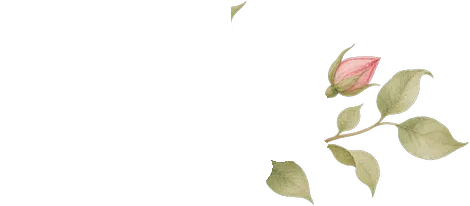
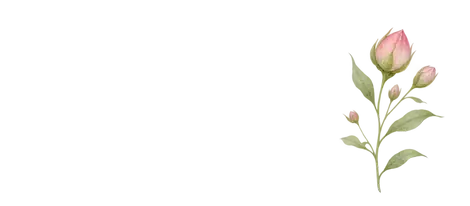
Arte nuevo: caligrafía Great Vibes y la decoración que pidió Soffia
La S de Parisienne se leía como una ele, así que la firma pasa a Great
Vibes. Pinta un 7 % más ancho por letra, de modo que los tres tamaños que
la usan bajan en la misma proporción: con los de antes el nombre se salía
de la hoja.

Las flores son otras —ranúnculo, cosmos y peonía en vez de rosas— en los
dos estilos, porque el tipo de flor fue lo primero que ella rechazó y
dejarlo en «papel» habría sido volver a enseñárselo.

El muro que tapa la fotografía se rehízo conservando la silueta recortada
de los paneles viejos y cambiando solo lo que la rellena: así la
animación del desvelado es exactamente la de antes. El panel de arriba se
toma de más lejos, porque se ve al 125 % del marco y los laterales al
80 %, y a la misma escala sus flores salían del doble de tamaño.

Las esferas espejadas, los globos, los moños, el confeti y la purpurina
solo salen en «fiesta»: sobre la acuarela de «papel» cantarían, y ahí la
gracia es la contraria. Eso deja los dos estilos por fin distintos de
verdad. Las láminas traían un velo de alfa invisible que al recortar
dejaba un recuadro alrededor de cada pieza; quitarlo bajó el peso casi a
la mitad.

Las secciones de «fiesta» respiran más por arriba porque ahí es donde van
los adornos, y recortan a lo ancho con `clip` y no con `hidden`: `hidden`
las convertiría en contenedores de scroll y la escena de Soffia dejaría
de pegarse.

Changed region(s): [[0.6851, 0.1456, 1.0, 0.9612], [0.566, 0.7573, 0.6851, 0.9903], [0.4766, 0.0, 0.5362, 0.0874]]

diff --git a/styles.css b/styles.css
@@ -36,7 +36,7 @@
 
   --col: 480px;
   --serif: 'Cormorant Garamond', 'Times New Roman', serif;
-  --firma: 'Parisienne', 'Cormorant Garamond', cursive;
+  --firma: 'Great Vibes', 'Cormorant Garamond', cursive;
   --sans:  'Jost', system-ui, -apple-system, sans-serif;
 
   --curva: cubic-bezier(.22,.61,.36,1);
@@ -266,7 +266,7 @@ body.hoja-fuera .carta{ top:38%; left:16%; width:68%; }
 }
 .carta-nombre{
   font-family:var(--firma); font-weight:400;
-  font-size: clamp(32px, calc(var(--hoja-w, 92vw) * .105), 52px); line-height:1.06;
+  font-size: clamp(30px, calc(var(--hoja-w, 92vw) * .098), 49px); line-height:1.10;
   color:var(--tinta); margin:.1em 0 0;
   white-space:nowrap;
 }
@@ -559,7 +559,7 @@ main{ display:block; }
 .invitacion .inv-pie{ transition-delay:.34s; }
 .firma{
   font-family:var(--firma); font-weight:400;
-  font-size:clamp(38px,12.6vw,56px); line-height:1.1;
+  font-size:clamp(36px,11.8vw,52px); line-height:1.14;
   color:var(--tinta); display:block;
 }
 .parrafo-grande{
@@ -812,7 +812,7 @@ main{ display:block; }
 }
 .rubrica-firma{
   font-family:var(--firma); font-weight:400;
-  font-size:clamp(54px,17vw,74px); line-height:1;
+  font-size:clamp(50px,15.9vw,69px); line-height:1.04;
   color:var(--tinta); margin:.1em 0 0;
 }
 .sello{
@@ -969,43 +969,35 @@ body.anima .revela.visible{ opacity:1; transform:none; }
    ════════════════════════════════════════════════════════════════════ */
 
 .adorno{
-  position:absolute; z-index:1; pointer-events:none;
+  /* Fotografías de verdad: espejo, foil, satén y purpurina. Solo salen en
+     «fiesta». Sobre la acuarela del estilo «papel» cantarían, y ahí la
+     gracia es justo la contraria: que manden las flores, nada más. */
+  display:none;
+  position:absolute; z-index:1; pointer-events:none; height:auto;
   will-change: transform;
   transform: translate3d(0, var(--py, 0px), 0) rotate(var(--giro,0deg));
 }
-.adorno svg{ display:block; width:100%; height:auto; }
+:root[data-estilo="fiesta"] .adorno{ display:block; }
 
-/* Colocación, igual en los dos estilos: lo que cambia es el tamaño. Todos
-   van ARRIBA del todo, por encima de donde empiezan los antetítulos: al
-   crecer el texto, cualquier cosa a media altura acaba rozándolo. */
-.adorno-soffia.adorno-esfera  { width:13%; top:14px; left:5%;   --giro:-6deg; }
-.adorno-soffia.adorno-destello{ width:6%;  top:76px; left:21%;  --giro:8deg;  }
-.adorno-cuando.adorno-estrella{ width:11%; top:16px; right:7%;  --giro:9deg;  }
-.adorno-cuando.adorno-destello{ width:5.5%;top:74px; right:21%; --giro:-7deg; }
-.adorno-itin.adorno-mono      { width:15%; top:10px; left:4%;   --giro:-5deg; }
-.adorno-itin.adorno-destello  { width:5.5%;top:72px; left:22%;  --giro:6deg;  }
+/* Colocación. Todo va ARRIBA del todo, por encima de donde empiezan los
+   antetítulos: cualquier cosa a media altura acaba rozando el texto cuando
+   la letra crece. Los hilos de las esferas y las cintas de los globos salen
+   cortados en el borde del recorte, así que cuelgan del canto de la sección
+   en vez de flotar sueltos. */
+.ad-esferas   { width:27%; top:-4px;  left:3%;   --giro:0deg;  }
+.ad-globos    { width:28%; top:2px;   right:2%;  --giro:0deg;  }
+.ad-esfera-sola{width:8%;  top:-2px;  left:13%;  --giro:0deg;  }
+.ad-mono-a    { width:19%; top:10px;  left:4%;   --giro:-5deg; }
+.ad-mono-b    { width:17%; top:14px;  right:5%;  --giro:4deg;  }
 
-/* el color de la estrella, el moño y el destello viaja por `color`, que sí
-   entra en las copias que hace <use>; las variables CSS no */
-.adorno-estrella, .adorno-mono, .adorno-destello{ color: var(--ad-medio, #D98E92); }
-.adorno-destello{ color: var(--ad-destello, #E0B49C); }
+/* El confeti va grande y muy tenue, y se sale por el canto: así se lee como
+   polvo repartido por la hoja y no como una calcomanía pegada en una esquina. */
+.ad-polvo     { opacity:.55; }
+.ad-polvo-a   { width:34%; top:30px;  right:-6%; --giro:0deg; }
+.ad-polvo-b   { width:32%; top:38px;  right:-5%; --giro:0deg; }
 
-/* ── 1 · PAPEL ────────────────────────────────────────────────────────────
-   Los adornos pasan por acuarela: sin metal, apagados y fundidos con el
-   papel. Están, pero no levantan la voz: las flores siguen mandando. */
-:root[data-estilo="papel"]{
-  --ad-claro:    #F3DCD6;
-  --ad-medio:    #DCA9A2;
-  --ad-hondo:    #BE8A80;
-  --ad-destello: #D7AE8E;
-}
-:root[data-estilo="papel"] .adorno{
-  opacity:.52;
-  mix-blend-mode: multiply;      /* se mete en la fibra del papel */
-  filter: saturate(.72);
-}
-:root[data-estilo="papel"] .adorno-esfera{ width:10%; }
-:root[data-estilo="papel"] .adorno-mono  { width:12%; }
+/* «Papel» se queda como estaba: acuarela y nada más. Esa es la diferencia
+   entre los dos estilos, y por eso se pueden comparar de verdad. */
 
 /* ── 2 · FIESTA ───────────────────────────────────────────────────────────
    Rosa fuerte y plata, como las referencias que eligió Soffia. El papel se
@@ -1026,30 +1018,25 @@ body.anima .revela.visible{ opacity:1; transform:none; }
   --tinta-suave:   #6B4E5C;
   --tinta-tenue:   #9A7C8A;
 
-  --ad-claro:    #FFFFFF;
-  --ad-medio:    #C9C2C8;
-  --ad-hondo:    #8A7F88;
-  --ad-destello: #E88FB2;
 }
-:root[data-estilo="fiesta"] .adorno{ opacity:.95; }
-:root[data-estilo="fiesta"] .adorno-esfera{
-  width:17%;
-  filter: drop-shadow(0 6px 14px rgba(90,60,75,.22));
-}
-:root[data-estilo="fiesta"] .adorno-estrella,
-:root[data-estilo="fiesta"] .adorno-mono{
-  color:#E0749E;
-  filter: drop-shadow(0 4px 10px rgba(160,60,100,.20));
-}
-:root[data-estilo="fiesta"] .adorno-estrella{ width:14%; }
-:root[data-estilo="fiesta"] .adorno-mono    { width:19%; }
-:root[data-estilo="fiesta"] .adorno-destello{ width:7%; }
 
 /* Las acuarelas son las mismas imágenes: se les sube el tono para que no se
    vean descoloridas junto al rosa fuerte. No es arte nuevo, es un ajuste. */
+:root[data-estilo="fiesta"] .ad-esferas,
+:root[data-estilo="fiesta"] .ad-esfera-sola{
+  filter: drop-shadow(0 7px 16px rgba(90,60,75,.20));
+}
+:root[data-estilo="fiesta"] .ad-mono-a,
+:root[data-estilo="fiesta"] .ad-mono-b,
+:root[data-estilo="fiesta"] .ad-globos{
+  filter: drop-shadow(0 5px 13px rgba(160,60,100,.17));
+}
+
+/* Las flores son las mismas en los dos estilos: aquí se les sube el tono
+   para que no se queden pálidas al lado del rosa fuerte. */
 :root[data-estilo="fiesta"] .flor,
 :root[data-estilo="fiesta"] .petalo{
-  filter: saturate(1.5) hue-rotate(-8deg) contrast(1.04);
+  filter: saturate(1.22) contrast(1.03);
 }
 
 /* El estilo fiesta pedía más cuerpo: con dos adornos por sección se quedaba
@@ -1058,21 +1045,32 @@ body.anima .revela.visible{ opacity:1; transform:none; }
    Va en el FONDO de la sección, no en un ::after: un pseudoelemento hay que
    colocarlo, y colocarlo obliga a subir el contenido por encima, lo que
    convertía los adornos en bloques a pantalla completa. */
-:root[data-estilo="fiesta"] .seccion{
-  background-image:
-    radial-gradient(circle at 12% 18%, rgba(224,116,158,.22) 0 1.6px, transparent 2px),
-    radial-gradient(circle at 78% 9%,  rgba(255,255,255,.85) 0 2.2px, transparent 2.8px),
-    radial-gradient(circle at 34% 62%, rgba(224,116,158,.16) 0 1.4px, transparent 1.9px),
-    radial-gradient(circle at 88% 48%, rgba(224,116,158,.20) 0 1.8px, transparent 2.3px),
-    radial-gradient(circle at 60% 86%, rgba(255,255,255,.75) 0 2px,   transparent 2.6px),
-    radial-gradient(circle at 20% 92%, rgba(224,116,158,.18) 0 1.5px, transparent 2px);
-  background-size: 190px 240px, 260px 300px, 150px 210px, 230px 270px, 300px 330px, 180px 250px;
+/* La purpurina es una fotografía, no seis degradados: el grano fino y el
+   desenfoque son justo lo que no se puede dibujar con CSS.
+   Va a `cover`, no repetida: la lámina no es sin costuras y al mosaico se le
+   verían las uniones. Estirada no se nota, porque no tiene forma. Y en
+   `multiply` para que cada sección conserve su propio color de fondo. */
+/* «Fiesta» respira más por arriba. No es capricho: el texto de una sección
+   empieza a 112 px del canto, y ahí es donde van los adornos. Con la banda de
+   antes, las esferas rozaban el primer renglón; ensanchándola caben de sobra
+   y de paso la sección se ve más holgada, que es lo que pedía este estilo. */
+:root[data-estilo="fiesta"] .seccion,
+:root[data-estilo="fiesta"] .s-soffia{
+  padding-top: clamp(170px, 32vw, 206px);
+  /* El confeti se sale por el canto a propósito, y eso ensanchaba la página.
+     `clip` y no `hidden`: `hidden` convierte la sección en un contenedor de
+     scroll y la escena de Soffia, que va pegada con sticky, dejaría de
+     pegarse. `clip` recorta sin tocar el scroll. */
+  overflow-x: clip;
 }
 
-:root[data-estilo="fiesta"] .adorno-esfera  { width:17%; }
-:root[data-estilo="fiesta"] .adorno-estrella{ width:13%; }
-:root[data-estilo="fiesta"] .adorno-mono    { width:17%; }
-:root[data-estilo="fiesta"] .adorno-destello{ width:7%;  }
+:root[data-estilo="fiesta"] .seccion{
+  background-image: url('assets/fondo-purpurina.webp');
+  background-size: cover;
+  background-position: center;
+  background-blend-mode: multiply;
+}
+
 
 /* y el campo se tiñe de rosa, no solo un punto más que el marfil */
 :root[data-estilo="fiesta"]{

diff --git a/index.html b/index.html
@@ -10,7 +10,7 @@
 <meta name="theme-color" content="#F7EADF">
 <link rel="preconnect" href="https://fonts.googleapis.com">
 <link rel="preconnect" href="https://fonts.gstatic.com" crossorigin>
-<link rel="stylesheet" href="https://fonts.googleapis.com/css2?family=Cormorant+Garamond:ital,wght@0,300;0,400;0,500;0,600;1,300;1,400&family=Jost:wght@300;400;500&family=Parisienne&display=swap">
+<link rel="stylesheet" href="https://fonts.googleapis.com/css2?family=Cormorant+Garamond:ital,wght@0,300;0,400;0,500;0,600;1,300;1,400&family=Jost:wght@300;400;500&family=Great+Vibes&display=swap">
 <!-- El estilo se decide antes de pintar nada: si se pusiera desde script.js
      se vería un parpadeo del estilo viejo al nuevo. Manda ?estilo= de la URL;
      si no, lo que diga datos.js (y por defecto, «papel»). -->
@@ -28,66 +28,6 @@
 <link rel="stylesheet" href="styles.css?v=1794944188">
 </head>
 <body class="sin-abrir">
-
-<!-- ══════════════ ADORNOS ══════════════
-     Dibujados, no fotografiados: así los mismos cuatro sirven a los dos
-     estilos. El CSS decide color, tamaño y fuerza, de modo que en «papel»
-     pasan por acuarela apagada y en «fiesta» por plata y purpurina. -->
-<svg width="0" height="0" style="position:absolute" aria-hidden="true" focusable="false">
- <defs>
-
-  <clipPath id="c-esfera"><circle cx="50" cy="52" r="40"/></clipPath>
-  <symbol id="ad-esfera" viewBox="0 0 100 100">
-    <radialGradient id="g-esfera" cx="34%" cy="26%" r="82%">
-      <stop offset="0"   stop-color="#FFFFFF"/>
-      <stop offset=".30" stop-color="var(--ad-claro,#EDE7E9)"/>
-      <stop offset=".70" stop-color="var(--ad-medio,#BCB2B7)"/>
-      <stop offset="1"   stop-color="var(--ad-hondo,#857A80)"/>
-    </radialGradient>
-    <circle cx="50" cy="52" r="40" fill="url(#g-esfera)"/>
-    <g clip-path="url(#c-esfera)" stroke="#FFFFFF" stroke-opacity=".5" stroke-width=".9" fill="none">
-      <!-- los meridianos van en elipses: rectos, la esfera parecería una reja -->
-      <ellipse cx="50" cy="52" rx="10" ry="40"/>
-      <ellipse cx="50" cy="52" rx="22" ry="40"/>
-      <ellipse cx="50" cy="52" rx="32" ry="40"/>
-      <path d="M10 36h80M10 44h80M10 52h80M10 60h80M10 68h80M14 28h72M14 76h72"/>
-    </g>
-    <ellipse cx="36" cy="35" rx="12" ry="8" fill="#FFFFFF" opacity=".5"
-             transform="rotate(-26 36 35)"/>
-    <path d="M50 12v-9" stroke="var(--ad-hondo,#C9BFC4)" stroke-width="1.6" stroke-linecap="round"/>
-  </symbol>
-
-  <symbol id="ad-estrella" viewBox="0 0 100 100">
-    <path fill="currentColor"
-          d="M50 7 61.8 38.2 95 39.4 68.6 59.6 78 91.5 50 72.4 22 91.5 31.4 59.6 5 39.4 38.2 38.2Z"/>
-    <path fill="#FFFFFF" opacity=".42"
-          d="M50 7 61.8 38.2 95 39.4 68.6 59.6 50 46Z"/>
-  </symbol>
-
-  <symbol id="ad-destello" viewBox="0 0 100 100">
-    <path fill="currentColor"
-          d="M50 2c3 26 19 42 46 48-27 6-43 22-46 48-3-26-19-42-46-48 27-6 43-22 46-48Z"/>
-  </symbol>
-
-  <symbol id="ad-mono" viewBox="0 0 100 100">
-    <g fill="currentColor">
-      <path d="M46 52c-6 12-12 20-20 28 7 2 12 1 16-3 5-5 8-14 9-23Z"/>
-      <path d="M54 52c6 12 12 20 20 28-7 2-12 1-16-3-5-5-8-14-9-23Z"/>
-      <path d="M48 48C38 36 24 30 14 34c-9 4-8 16 2 20 9 4 23 1 32-6Z"/>
-      <path d="M52 48c10-12 24-18 34-14 9 4 8 16-2 20-9 4-23 1-32-6Z"/>
-    </g>
-    <path d="M44 42c-7-4-16-6-22-4" stroke="#FFFFFF" stroke-opacity=".45"
-          stroke-width="2.4" fill="none" stroke-linecap="round"/>
-    <path d="M56 42c7-4 16-6 22-4" stroke="#FFFFFF" stroke-opacity=".45"
-          stroke-width="2.4" fill="none" stroke-linecap="round"/>
-    <ellipse cx="50" cy="49" rx="6.5" ry="7.5" fill="currentColor"/>
-    <ellipse cx="50" cy="49" rx="6.5" ry="7.5" fill="#000" opacity=".18"/>
-    <path d="M44 42c2-2 5-3 8-3" stroke="#FFFFFF" stroke-opacity=".5"
-          stroke-width="1.6" fill="none" stroke-linecap="round"/>
-  </symbol>
-
- </defs>
-</svg>
 
 <p class="salta"><a href="#contenido">Saltar al contenido de la invitación</a></p>
 
@@ -172,8 +112,8 @@
 <section class="seccion s-soffia" id="soffia">
   <div class="costura costura-arriba" aria-hidden="true"></div>
   <img class="flor flor-soffia" src="assets/flor-rosa.webp" alt="" loading="lazy" data-parallax="0.09">
-  <span class="adorno adorno-soffia adorno-esfera" aria-hidden="true" data-parallax="0.10"><svg viewBox="0 0 100 100"><use href="#ad-esfera"/></svg></span>
-  <span class="adorno adorno-soffia adorno-destello" aria-hidden="true" data-parallax="0.11"><svg viewBox="0 0 100 100"><use href="#ad-destello"/></svg></span>
+  <img class="adorno ad-esferas" src="assets/ad-esferas.webp" alt="" aria-hidden="true" loading="lazy" data-parallax="0.10">
+  <img class="adorno ad-polvo ad-polvo-a" src="assets/ad-estrellas.webp" alt="" aria-hidden="true" loading="lazy" data-parallax="0.13">
 
   <!-- el puente: lo último que se lee antes de que se abran las rosas -->
   <div class="envoltorio">
@@ -220,8 +160,8 @@
 <section class="seccion s-cuando" id="cuando">
   <div class="costura costura-arriba invertida" aria-hidden="true"></div>
   <img class="flor flor-cuando" src="assets/flor-ramo.webp" alt="" loading="lazy" data-parallax="0.07">
-  <span class="adorno adorno-cuando adorno-estrella" aria-hidden="true" data-parallax="0.10"><svg viewBox="0 0 100 100"><use href="#ad-estrella"/></svg></span>
-  <span class="adorno adorno-cuando adorno-destello" aria-hidden="true" data-parallax="0.11"><svg viewBox="0 0 100 100"><use href="#ad-destello"/></svg></span>
+  <img class="adorno ad-globos" src="assets/ad-globos.webp" alt="" aria-hidden="true" loading="lazy" data-parallax="0.09">
+  <img class="adorno ad-esfera-sola" src="assets/ad-esfera.webp" alt="" aria-hidden="true" loading="lazy" data-parallax="0.12">
 
   <div class="envoltorio">
     <p class="antetitulo revela" style="--i:0">Cuándo</p>
@@ -255,8 +195,8 @@
 <section class="seccion s-itinerario" id="itinerario">
   <div class="costura costura-arriba" aria-hidden="true"></div>
   <img class="flor flor-itin" src="assets/flor-capullos.webp" alt="" loading="lazy" data-parallax="0.11">
-  <span class="adorno adorno-itin adorno-mono" aria-hidden="true" data-parallax="0.10"><svg viewBox="0 0 100 100"><use href="#ad-mono"/></svg></span>
-  <span class="adorno adorno-itin adorno-destello" aria-hidden="true" data-parallax="0.11"><svg viewBox="0 0 100 100"><use href="#ad-destello"/></svg></span>
+  <img class="adorno ad-mono-a" src="assets/ad-mono-a.webp" alt="" aria-hidden="true" loading="lazy" data-parallax="0.10">
+  <img class="adorno ad-polvo ad-polvo-b" src="assets/ad-estrellas.webp" alt="" aria-hidden="true" loading="lazy" data-parallax="0.13">
 
   <div class="envoltorio">
     <p class="antetitulo revela" style="--i:0">Así celebraremos</p>
@@ -293,6 +233,7 @@
 <!-- ══════════════ 7 · DESPEDIDA ══════════════ -->
 <section class="seccion s-cierre" id="cierre">
   <div class="costura costura-arriba invertida" aria-hidden="true"></div>
+  <img class="adorno ad-mono-b" src="assets/ad-mono-b.webp" alt="" aria-hidden="true" loading="lazy" data-parallax="0.10">
   <!-- el cierre se monta en tres piezas: la rosa donde aterriza la que cae,
        y el follaje de cada lado, que sale de detrás cuando ya está posada -->
   <span class="flor flor-cierre-b" aria-hidden="true" data-parallax="0.09">

diff --git a/PROMPTS para el estilo fiesta.md b/PROMPTS para el estilo fiesta.md
@@ -1,0 +1,86 @@
+# Prompts · estilo fiesta
+
+Seis imágenes. Copia cada bloque completo y pégalo tal cual. No hay que juntar nada.
+
+Si solo vas a hacer unas pocas: **1, luego 6, luego 2.**
+
+---
+
+## 1 · Flores nuevas
+
+```
+Watercolor botanical illustration sheet with six separate flower arrangements floating apart from each other, hand-painted on cotton paper. Loose garden flowers: ranunculus with layered petals, cosmos with open round petals, single peony, and small clusters of unopened buds. Fresh saturated pink tones, from pale blush to deep raspberry, with soft sage green stems and leaves. Visible watercolor granulation and wet edges where pigment pooled. Delicate, airy, not dense. Each arrangement complete and self-contained, clearly separated from the others so they can be cut out individually. Transparent background, PNG with alpha channel. Soft diffused light coming from the upper left, no hard shadows, no cast shadow on the ground. Generous empty margin around each arrangement. No text, no letters, no numbers, no watermark, no frame, no background scenery. Palette strictly limited to blush pink #F0C9C7, antique rose #D98E92, deep pink #C9557E, rose gold #CC967D, champagne silver #D9D4D0 and warm ivory #FBF3E9. 2048 x 2048 px, square.
+```
+
+---
+
+## 2 · Esferas espejadas
+
+```
+Three mirror disco balls of different sizes hanging from thin silver threads, photographed as a product shot. Small square mirrored facets covering each sphere, each facet catching light at a slightly different angle, with warm pink and champagne reflections in the mirrors. Realistic specular highlights, crisp and jewel-like. The threads continue upward and are cut off at the top edge of the frame. Transparent background, PNG with alpha channel. Soft diffused light coming from the upper left, no hard shadows, no cast shadow on the ground. Generous empty margin around the group. No text, no letters, no numbers, no watermark, no frame, no background scenery. Palette strictly limited to blush pink #F0C9C7, antique rose #D98E92, deep pink #C9557E, rose gold #CC967D, champagne silver #D9D4D0 and warm ivory #FBF3E9. 2048 x 2048 px, square.
+```
+
+---
+
+## 3 · Globos metálicos
+
+```
+A cluster of five foil balloons grouped together, product photography. Mix of round and heart shapes, in rose gold chrome and pale champagne silver, with mirror-like metallic surface reflecting soft studio light. Visible gentle creases and seams in the foil where it is inflated. Smooth satin ribbons hanging down from the cluster and cut off at the bottom edge of the frame. Transparent background, PNG with alpha channel. Soft diffused light coming from the upper left, no hard shadows, no cast shadow on the ground. Generous empty margin around the cluster. No text, no letters, no numbers, no watermark, no frame, no background scenery. Palette strictly limited to blush pink #F0C9C7, antique rose #D98E92, deep pink #C9557E, rose gold #CC967D, champagne silver #D9D4D0 and warm ivory #FBF3E9. 2048 x 2048 px, square.
+```
+
+---
+
+## 4 · Moños de satén
+
+```
+Four satin ribbon bows at different angles and sizes, arranged apart from each other, product photography. Luxurious silk satin with soft sheen and visible fabric folds, in blush pink and dusty rose. Each bow tied with two full loops and two long tails that fall naturally and curl slightly. Elegant and generous, like gift wrapping on a luxury box. Transparent background, PNG with alpha channel. Soft diffused light coming from the upper left, no hard shadows, no cast shadow on the ground. Generous empty margin around each bow. No text, no letters, no numbers, no watermark, no frame, no background scenery. Palette strictly limited to blush pink #F0C9C7, antique rose #D98E92, deep pink #C9557E, rose gold #CC967D, champagne silver #D9D4D0 and warm ivory #FBF3E9. 2048 x 2048 px, square.
+```
+
+---
+
+## 5 · Estrellas y destellos
+
+```
+A scattered collection of glitter stars and sparkles of many sizes, from tiny specks to larger five-pointed stars, spread apart across the frame with empty space between them. Fine iridescent glitter texture with pink and silver shimmer, catching light. Some stars in sharp focus, others softly blurred as if closer to the camera. Delicate and scattered, like confetti caught mid-air. Transparent background, PNG with alpha channel. Soft diffused light coming from the upper left, no hard shadows, no cast shadow on the ground. No text, no letters, no numbers, no watermark, no frame, no background scenery. Palette strictly limited to blush pink #F0C9C7, antique rose #D98E92, deep pink #C9557E, rose gold #CC967D, champagne silver #D9D4D0 and warm ivory #FBF3E9. 2048 x 2048 px, square.
+```
+
+---
+
+## 6 · Fondo de purpurina
+
+```
+Seamless soft-focus background texture of fine glitter bokeh, pale blush pink fading to champagne, with scattered out-of-focus light sparkles. Very subtle and low contrast, like a blurred photograph of glitter paper. No objects, no focal point, even across the whole frame. No text, no letters, no numbers, no watermark, no frame. Palette limited to blush pink #F0C9C7, antique rose #D98E92, rose gold #CC967D, champagne silver #D9D4D0 and warm ivory #FBF3E9. 1536 x 1536 px, square.
+```
+
+---
+
+Cuando las tengas, déjalas en la carpeta y me dices. El estilo papel no lo toco.
+
+---
+
+# Lo que todavía queda con las rosas viejas
+
+Las seis imágenes ya están montadas. Pero hay dos sitios donde siguen las rosas
+que a Soffia no le gustaron, y son justo los más visibles:
+
+- **El muro de rosas que tapa su fotografía** y se abre al bajar. Es el momento
+  que ella pidió conservar, y es el que más flores enseña.
+- **La rosa que cae** y acompaña el scroll por toda la página.
+
+No los cambié porque no son recortes de una lámina: son piezas con forma
+concreta. Hacen falta dos imágenes más.
+
+## 7 · El muro de rosas
+
+```
+A dense wall of garden flowers seen from directly above, filling the entire frame edge to edge with no gaps and no background showing through. Ranunculus with layered petals, open cosmos, and full peonies in fresh saturated pink, from pale blush to deep raspberry, packed tightly together with sage green leaves filling the spaces between blooms. Hand-painted watercolor on cotton paper, with visible granulation and wet edges. Even coverage across the whole image, no single focal point, flowers of varied sizes so the surface does not look repetitive. No text, no letters, no numbers, no watermark, no frame, no vase, no hands. Palette strictly limited to blush pink #F0C9C7, antique rose #D98E92, deep pink #C9557E, sage green #9FA87E and warm ivory #FBF3E9. 2048 x 2048 px, square.
+```
+
+## 8 · La rosa que cae
+
+```
+Three separate watercolor paintings of the same single ranunculus bloom, seen from three different angles, floating apart from each other on the same sheet: one seen straight from the front with the spiral centre visible, one seen from three-quarters, and one seen from the side in profile. No stem, no leaves, just the flower head. Fresh saturated pink with pale blush outer petals. Hand-painted watercolor on cotton paper with visible granulation and soft wet edges. Each of the three the same size as the others. Transparent background, PNG with alpha channel. Soft diffused light from the upper left, no hard shadows, no cast shadow on the ground. Generous empty margin around each one. No text, no letters, no numbers, no watermark, no frame, no background scenery. Palette strictly limited to blush pink #F0C9C7, antique rose #D98E92, deep pink #C9557E and warm ivory #FBF3E9. 2048 x 2048 px, square.
+```
+
+**Por qué tres ángulos:** la rosa gira mientras cae. Con una sola imagen se vería
+plana, como una calcomanía girando sobre sí misma.
